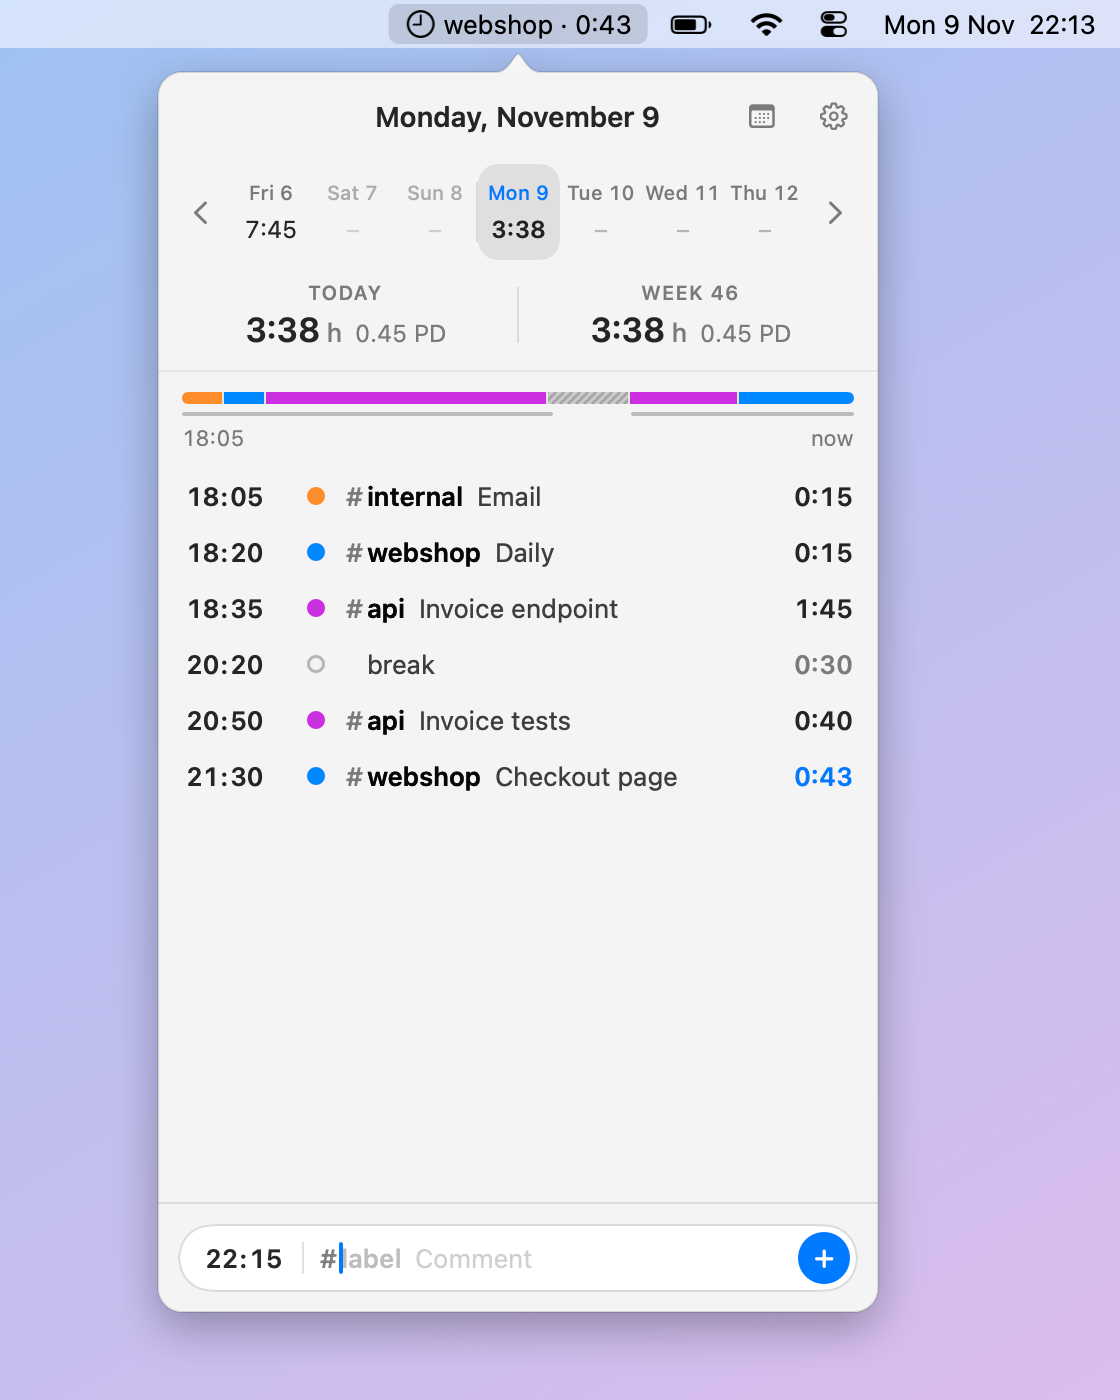
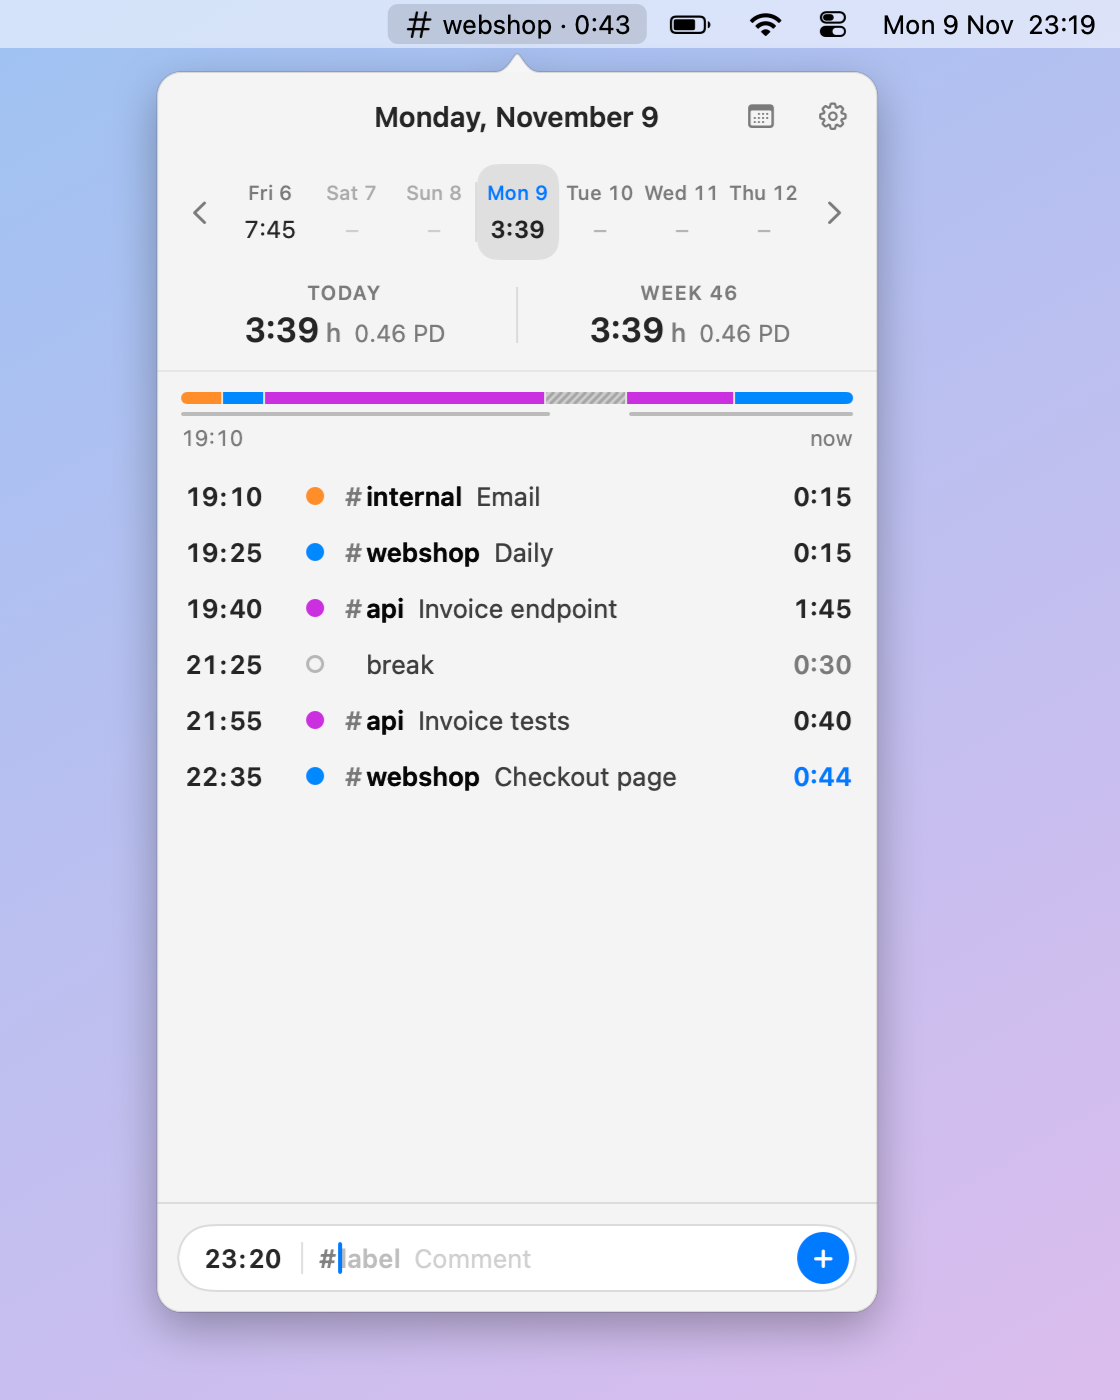
Menüleiste: # statt Uhr als Symbol, Screenshots neu (#7)

diff --git a/Sources/zeyt/AppDelegate.swift b/Sources/zeyt/AppDelegate.swift
@@ -48,7 +48,7 @@ final class AppDelegate: NSObject, NSApplicationDelegate, NSPopoverDelegate {
         }
         #endif
         statusItem = NSStatusBar.system.statusItem(withLength: NSStatusItem.variableLength)
-        statusItem.button?.image = NSImage(systemSymbolName: "clock", accessibilityDescription: "zeyt")
+        statusItem.button?.image = NSImage(systemSymbolName: "number", accessibilityDescription: "zeyt")
         statusItem.button?.target = self
         statusItem.button?.action = #selector(togglePopover)
 
@@ -303,7 +303,7 @@ final class AppDelegate: NSObject, NSApplicationDelegate, NSPopoverDelegate {
 
     private func updateStatusItem() {
         guard let button = statusItem.button, !popover.isShown else { return }
-        button.image = NSImage(systemSymbolName: state.reminder.enabled ? "clock" : "pause.circle", accessibilityDescription: "zeyt")
+        button.image = NSImage(systemSymbolName: state.reminder.enabled ? "number" : "pause.circle", accessibilityDescription: "zeyt")
         let now = Date()
         let running = Block.compute(store.entries(on: now), now: now).last { $0.running }
         button.imagePosition = .imageLeading

diff --git a/docs/make-screenshot.swift b/docs/make-screenshot.swift
@@ -93,7 +93,7 @@ if isPopover {
         drawSymbol(image, x: x)
     }
 
-    let icon = symbol("clock")
+    let icon = symbol("number")
     let text = NSAttributedString(string: title, attributes: [.font: font, .foregroundColor: fg])
     let itemWidth = icon.size.width + text.size().width + 16
     x -= itemWidth + 10

diff --git a/CLAUDE.md b/CLAUDE.md
@@ -65,7 +65,7 @@ täglich und lässt Änderungen und Fixes über Claude machen.
 
 | Datei | Inhalt |
 | --- | --- |
-| `main.swift`, `AppDelegate.swift` | Start, Menüleisten-Uhr, Popover, Fenster, Erinnerungs-Takt, Autostart |
+| `main.swift`, `AppDelegate.swift` | Start, Menüleisten-Symbol (#), Popover, Fenster, Erinnerungs-Takt, Autostart |
 | `Migration.swift` | übernimmt einmalig Einstellungen von `local.tmr` (früherer Name TMR) |
 | `AppState.swift` | gemeinsamer Zustand von Popover und Einstellungen |
 | `Model.swift` | testbare Regeln: Labels, Vorschläge, Zeiten, `DayText` (Tag als Text), `Block` (Dauer, Art) |

diff --git a/README.md b/README.md
@@ -2,7 +2,7 @@
 
 # zeyt
 
-Time tracking in the macOS menu bar. Click the clock to see your day; when nothing is running,
+Time tracking in the macOS menu bar. Click the # in the menu bar to see your day; when nothing is running,
 zeyt sends a notification asking what you are working on.
 
 <picture>
